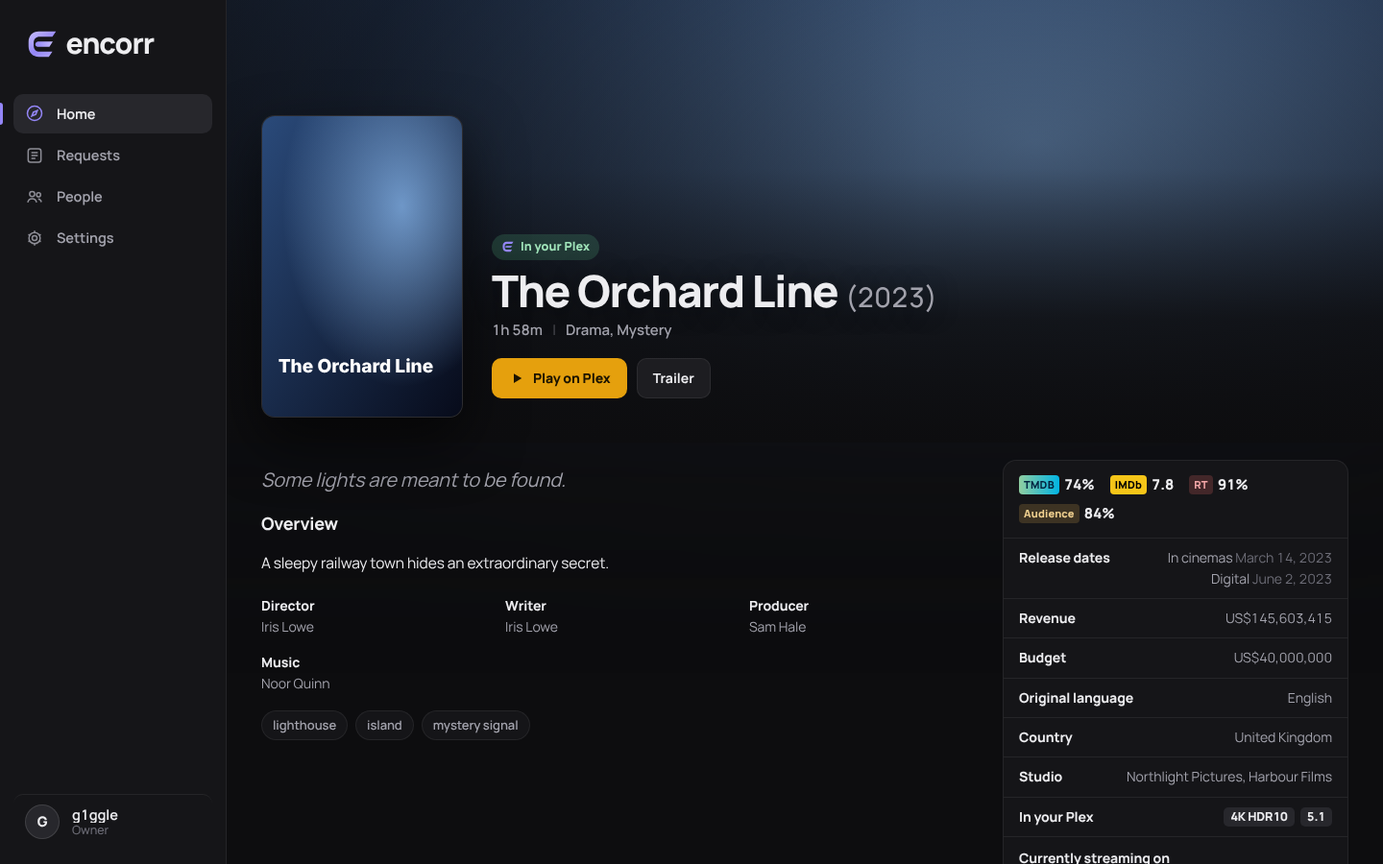
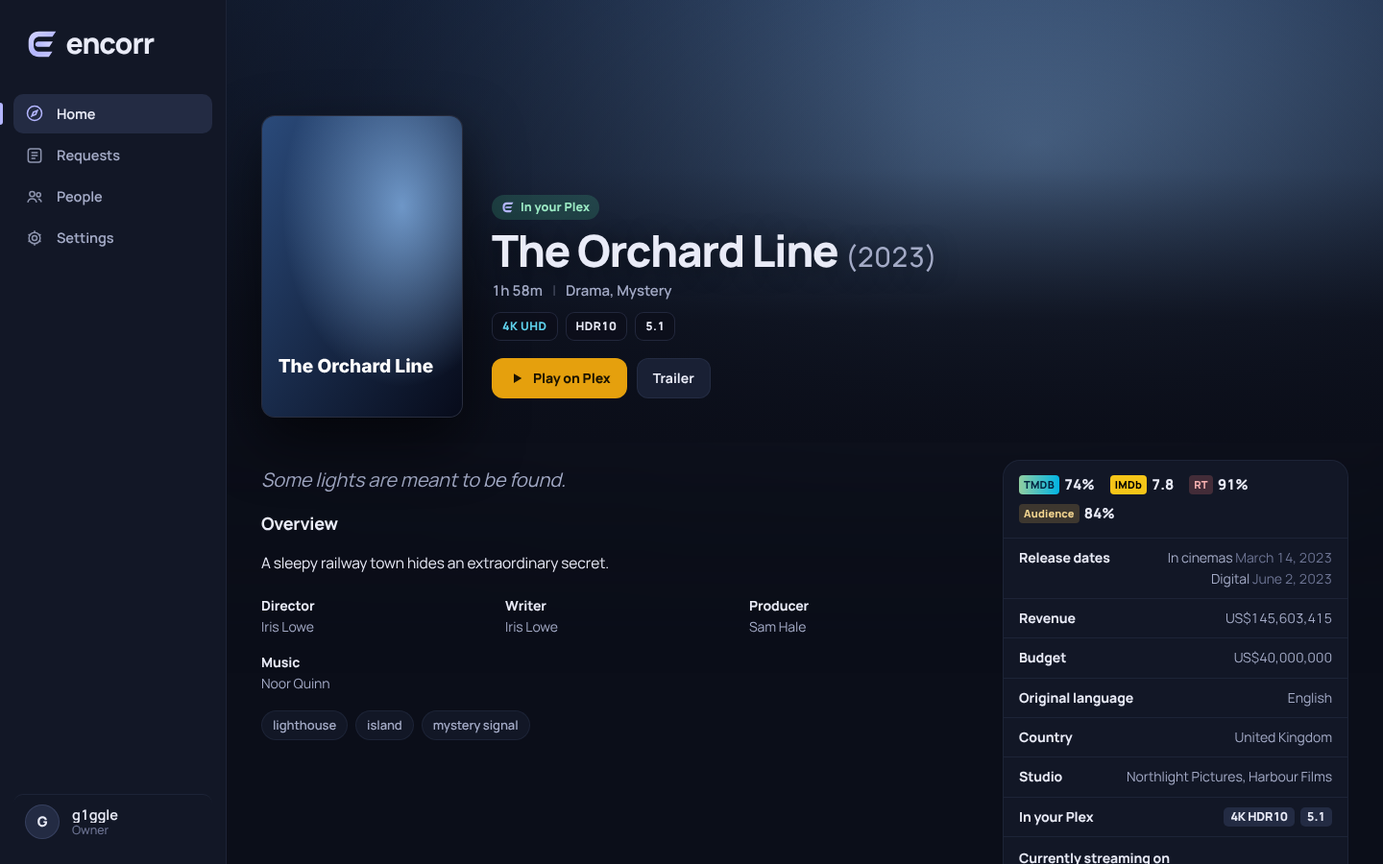
Midnight theme: ink-navy default, gradient progress, request stat tiles
- New default Midnight theme (deep ink navy, lavender accent, cyan highlights); Graphite stays as an option
- Each accent gets a companion highlight colour for ratings, links and progress
- Requests: stat tiles, new cards with poster badge, status pill, speed/time left and a gradient progress bar
- Plex quality chips (4K UHD, HDR10, 5.1) on title pages; In your Plex chip on the home banner
- Icons on home row headings
- Phone: bottom bar now shows labels
- Refreshed README screenshots

Claude-Session: https://claude.ai/code/session_01WbwGgC2FpzWvgXgKTPj5Lz

Changed region(s): [[0.3438, 0.2178, 0.6875, 0.4044], [0.0, 0.1244, 0.0312, 0.1556], [0.0, 0.0311, 0.0312, 0.0622]]

diff --git a/internal/web/static/app.js b/internal/web/static/app.js
@@ -138,6 +138,25 @@ const GMARK = (size, cls = "") => {
 const LOCKUP = (size) => `<span class="lockup" style="font-size:${size}px" role="img" aria-label="Encorr">${GMARK(Math.round(size * 1.05), "lk")}<span>encorr</span></span>`;
 
 // ---------- icons ----------
+const RI = {
+  flame: '<svg viewBox="0 0 24 24" fill="none" stroke="currentColor" stroke-width="1.8" stroke-linejoin="round"><path d="M12 3c.5 3.5 4.5 5.2 4.5 9.5a4.5 4.5 0 0 1-9 0c0-2 1-3.3 2-4.3.2 1.6 1 2.6 2 2.8C11 9 11 6 12 3Z"/></svg>',
+  recent: '<svg viewBox="0 0 24 24" fill="none" stroke="currentColor" stroke-width="1.8" stroke-linecap="round"><rect x="3.5" y="5" width="17" height="12" rx="2.5"/><path d="M8 20.5h8M10.5 9l4 2-4 2z"/></svg>',
+  film: '<svg viewBox="0 0 24 24" fill="none" stroke="currentColor" stroke-width="1.8"><rect x="4" y="3.5" width="16" height="17" rx="2.5"/><path d="M8 3.5v17M16 3.5v17M4 8h4M4 12h4M4 16h4M16 8h4M16 12h4M16 16h4"/></svg>',
+  tv: '<svg viewBox="0 0 24 24" fill="none" stroke="currentColor" stroke-width="1.8" stroke-linecap="round"><rect x="3" y="6" width="18" height="12.5" rx="2.5"/><path d="m8.5 2.5 3.5 3.5 3.5-3.5"/></svg>',
+  ticket: '<svg viewBox="0 0 24 24" fill="none" stroke="currentColor" stroke-width="1.8" stroke-linejoin="round"><path d="M3.5 7.5a2 2 0 0 1 2-2h13a2 2 0 0 1 2 2v2a2.5 2.5 0 0 0 0 5v2a2 2 0 0 1-2 2h-13a2 2 0 0 1-2-2v-2a2.5 2.5 0 0 0 0-5z"/><path d="M14 6v12" stroke-dasharray="2 2.2"/></svg>',
+  star: '<svg viewBox="0 0 24 24" fill="none" stroke="currentColor" stroke-width="1.8" stroke-linejoin="round"><path d="m12 3.5 2.6 5.3 5.9.9-4.3 4.1 1 5.8L12 16.8l-5.2 2.8 1-5.8-4.3-4.1 5.9-.9z"/></svg>',
+  person: '<svg viewBox="0 0 24 24" fill="none" stroke="currentColor" stroke-width="1.8" stroke-linecap="round"><circle cx="12" cy="8.5" r="4"/><path d="M4.5 20.5c1.2-3.6 4-5.5 7.5-5.5s6.3 1.9 7.5 5.5"/></svg>',
+  studio: '<svg viewBox="0 0 24 24" fill="none" stroke="currentColor" stroke-width="1.8" stroke-linejoin="round"><path d="M4 20.5V9l8-5 8 5v11.5M9 20.5v-6h6v6M3 20.5h18"/></svg>',
+  network: '<svg viewBox="0 0 24 24" fill="none" stroke="currentColor" stroke-width="1.8" stroke-linecap="round"><circle cx="12" cy="12" r="2"/><path d="M8 8a5.6 5.6 0 0 0 0 8M16 8a5.6 5.6 0 0 1 0 8M5.2 5.2a9.6 9.6 0 0 0 0 13.6M18.8 5.2a9.6 9.6 0 0 1 0 13.6"/></svg>',
+  tag: '<svg viewBox="0 0 24 24" fill="none" stroke="currentColor" stroke-width="1.8" stroke-linejoin="round"><path d="M3.5 12V4.5a1 1 0 0 1 1-1H12l8.5 8.5-8.5 8.5z"/><circle cx="8" cy="8" r="1.4" fill="currentColor"/></svg>',
+  spark: '<svg viewBox="0 0 24 24" fill="none" stroke="currentColor" stroke-width="1.8" stroke-linejoin="round"><path d="M12 3.5c.8 4.6 3.9 7.7 8.5 8.5-4.6.8-7.7 3.9-8.5 8.5-.8-4.6-3.9-7.7-8.5-8.5 4.6-.8 7.7-3.9 8.5-8.5Z"/></svg>',
+};
+function rowIcon(key) {
+  const k = String(key || ""), pre = k.split(":")[0];
+  const m = { trending: "flame", "plex-recent": "recent", movies: "film", tv: "tv", upcoming: "ticket", "now-playing": "ticket", "on-air": "tv", "top-movies": "star", "top-tv": "star", person: "person", company: "studio", network: "network", genre: "tag", keyword: "tag", decade: "spark", gems: "spark" };
+  return RI[m[k] || m[pre] || "spark"];
+}
+
 const I = {
   discover: '<svg viewBox="0 0 24 24" fill="none" stroke="currentColor" stroke-width="1.8"><circle cx="12" cy="12" r="9"/><path d="m15.5 8.5-2 5-5 2 2-5z" fill="currentColor" fill-opacity=".25"/></svg>',
   search: '<svg viewBox="0 0 24 24" fill="none" stroke="currentColor" stroke-width="1.8"><circle cx="11" cy="11" r="6.5"/><path d="m20 20-4.2-4.2"/></svg>',
@@ -151,7 +170,7 @@ const I = {
   chev: '<svg viewBox="0 0 24 24" fill="none" stroke="currentColor" stroke-width="2.2" width="16" height="16"><path d="m9 5 7 7-7 7"/></svg>',
 };
 
-const ACCENTS = [["violet", "#9486f7", "Violet"], ["blue", "#5b93f0", "Blue"], ["teal", "#2fbfae", "Teal"], ["green", "#52c47c", "Green"], ["yellow", "#e9bb4a", "Yellow"], ["coral", "#ef8256", "Orange"], ["red", "#e55a61", "Red"], ["pink", "#e46aa8", "Pink"]];
+const ACCENTS = [["violet", "#b4b6ff", "Lavender"], ["blue", "#5b93f0", "Blue"], ["teal", "#2fbfae", "Teal"], ["green", "#52c47c", "Green"], ["yellow", "#e9bb4a", "Yellow"], ["coral", "#ef8256", "Orange"], ["red", "#e55a61", "Red"], ["pink", "#e46aa8", "Pink"]];
 
 // ---------- boot & routing ----------
 async function boot() {
@@ -164,7 +183,7 @@ async function boot() {
   }
   state.user = state.status.user || null;
   document.documentElement.dataset.accent = state.status.accent || "violet";
-  document.documentElement.dataset.theme = state.status.theme || "black";
+  document.documentElement.dataset.theme = state.status.theme || "navy";
   const s = state.status;
   if (!s.hasAdmin || (!s.setupComplete && isAdmin())) return renderWizard();
   if (!state.user) return renderLogin();
@@ -455,7 +474,7 @@ async function pageDiscover(main, q = "", focus = false) {
   const box = qs("#rows");
   if (!box) return;
   box.innerHTML = rows.map((r, i) => `<section class="shelf">
-      <a class="shelf-head" href="#/browse/${encodeURIComponent(r.key)}"${tip("See everything in " + r.title.replace(/^\S+\s/, ""))}><h2>${esc(r.title)}</h2><span class="see">See all ${I.chev}</span></a>
+      <a class="shelf-head" href="#/browse/${encodeURIComponent(r.key)}"${tip("See everything in " + r.title)}><h2><span class="ri" aria-hidden="true">${rowIcon(r.key)}</span>${esc(r.title)}</h2><span class="see">See all ${I.chev}</span></a>
       <div id="row-${i}">${skeletonRow()}</div></section>`).join("");
   const load = async (r, i) => {
     const el = qs("#row-" + i);
@@ -482,7 +501,7 @@ async function pageDiscover(main, q = "", focus = false) {
     : `<a class="btn primary" href="#/title/${esc(x.type)}/${esc(x.id)}">${I.plus} Request</a>`;
   h.innerHTML = slides.map((x, i) => `<div class="slide ${i === 0 ? "on" : ""}" style="background-image:url('${esc(img(x.backdrop, "w1280"))}')" aria-hidden="${i === 0 ? "false" : "true"}">
       <div class="inner">
-        <div class="eyebrow">Trending this week · ${x.type === "tv" ? "TV show" : "Film"}</div>
+        ${x.status === "available" ? `<div class="qchips"><span class="qchip plex">In your Plex</span></div>` : ""}<div class="eyebrow">Trending this week · ${x.type === "tv" ? "TV show" : "Film"}</div>
         <h1>${esc(x.title)}</h1>
         <div class="hmeta">${x.rating ? `<span class="crate">${x.rating.toFixed(1)}</span>` : ""}${x.year ? `<span>${esc(x.year)}</span>` : ""}</div>
         <p>${esc(x.overview)}</p>
@@ -628,6 +647,14 @@ function journeyHTML(status, p, compact, part) {
   return `<div class="journey ${compact ? "compact" : "glass"} ${done ? "complete" : ""}" ${compact ? "" : 'id="journey"'} role="group" aria-label="Request progress: ${esc(j.text)}"><ol>${steps}</ol>${detail}</div>`;
 }
 
+// "4K HDR10" + "5.1" -> chips. Only shown when Plex told us what you have.
+function qchipsHTML(P) {
+  if (!P || !(P.quality || P.audio)) return "";
+  const bits = String(P.quality || "").split(/\s+/).filter(Boolean);
+  if (P.audio) bits.push(P.audio);
+  return `<div class="qchips">${bits.map((b) => `<span class="qchip ${/^4k$/i.test(b) ? "k4" : ""}">${esc(b.toUpperCase() === "4K" ? "4K UHD" : b)}</span>`).join("")}</div>`;
+}
+
 async function pageTitle(main, type, id) {
   main.innerHTML = `<div class="title-top"><div class="poster skeleton"></div><div><div class="skeleton" style="height:40px;width:60%"></div><div class="skeleton" style="height:16px;width:40%;margin-top:14px"></div><div class="skeleton" style="height:90px;margin-top:20px"></div></div></div>`;
   let data;
@@ -721,6 +748,7 @@ async function pageTitle(main, type, id) {
         ${statusPill}
         <h1>${esc(d.title)} ${d.year ? `<span class="yr">(${esc(d.year)})</span>` : ""}</h1>
         <div class="t-facts">${headFacts}</div>
+        ${qchipsHTML(P)}
         <div class="actions">
           ${P && P.url && ["available", "partial"].includes(s.status) ? `<a class="btn plex" href="${esc(P.url)}" target="_blank" rel="noopener"${tip("Open it in Plex")}>${I.play} Play on Plex</a>` : ""}
           ${requestable ? `<button class="btn primary" id="reqBtn"${tip(isAdmin() || state.user.role === "trusted" ? "Starts downloading straight away" : "Sends it to the owner to approve")}>${I.plus} ${s.status === "partial" || (type === "tv" && Object.keys(s.seasons || {}).length) ? "Request more" : "Request"}</button>` : ""}
@@ -860,9 +888,24 @@ async function pageRequests(main, filter) {
   main.innerHTML = `
     <div class="page-head"><div><h1>Requests</h1><div class="muted">${admin ? "Approve, decline and keep an eye on downloads." : "What you've asked for, and where it's up to."}</div></div>
       <div class="tabs">${tabs.map(([k, l, sh]) => `<button data-f="${k}" class="${k === filter ? "on" : ""}"><span class="long">${esc(l)}</span><span class="short">${esc(sh)}</span></button>`).join("")}</div></div>
+    <div class="rstats" id="rstats"></div>
     ${filter === "active" ? `<div id="rsum" class="rsum"></div>` : ""}
     <div id="rlist" class="list">${Array.from({ length: 4 }, () => `<div class="skeleton" style="height:105px"></div>`).join("")}</div>`;
   qsa(".tabs button", main).forEach((b) => b.addEventListener("click", () => (location.hash = "#/requests?filter=" + b.dataset.f)));
+  (async () => {
+    const tiles = admin
+      ? [["pending", "Waiting", "for your approval"], ["active", "In progress", ""], ["completed", "Completed", "ready in Plex"]]
+      : [["active", "In progress", ""], ["completed", "Completed", "ready in Plex"], ["mine", "All mine", "everything you asked for"]];
+    const got = await Promise.all(tiles.map(([k]) => api("/requests?filter=" + k).catch(() => null)));
+    const box = qs("#rstats");
+    if (!box) return;
+    box.innerHTML = tiles.map(([k, label, d], i) => {
+      const r = got[i]; const n = r ? r.results.length : "–";
+      const sub = k === "active" && r ? `${(r.counts || {}).downloading || 0} downloading` : d;
+      return `<button class="rstat ${k} ${k === filter ? "on" : ""}" data-f="${k}"><span class="k"><i></i>${esc(label)}</span><div class="n">${n}</div><div class="d">${esc(sub)}</div></button>`;
+    }).join("");
+    qsa(".rstat", box).forEach((b) => b.addEventListener("click", () => (location.hash = "#/requests?filter=" + b.dataset.f)));
+  })();
   let only = null; // state chip the user picked, if any
   const load = async () => {
     const box = qs("#rlist");
@@ -933,17 +976,30 @@ function reqRow(r) {
   if (r.type === "tv" && r.status === "approved" && r.want > 0) extra.push(`<span${tip("It moves to Completed once every episode that has aired is in Plex")}><b>${r.have || 0} of ${r.want}</b> episodes in Plex</span>`);
   if (r.nextAiring && r.state !== "waiting") extra.push(`<span${tip("New episodes download by themselves")}>Next episode ${esc(niceDate(r.nextAiring))}</span>`);
   if (r.state === "searching") extra.push(r.lastSearch ? `<span${tip("Encorr asks Radarr/Sonarr to look again every 12 hours")}>Searched again ${when(r.lastSearch)}</span>` : `<span${tip("Encorr asks Radarr/Sonarr to look again every 12 hours")}>Encorr will search again automatically</span>`);
-  return `<div class="glass req st-${esc(r.state || "")}" data-state="${esc(r.state || "")}">
-    <a href="#/title/${esc(r.type)}/${esc(r.tmdbId)}">${p ? `<img src="${esc(p)}" alt="">` : `<div class="ph"></div>`}</a>
-    <div class="info">
-      <a class="t" href="#/title/${esc(r.type)}/${esc(r.tmdbId)}" style="color:inherit">${esc(r.title)} <span class="dim" style="font-weight:500">${esc(r.year || "")}</span></a>
-      <div class="s">${r.type === "tv" ? esc(seasonsText(r.seasons)) + " · " : "Film · "}${esc(r.user || "Someone")} · ${when(r.created)}${src ? " · " + esc(src) : ""}</div>
+  const j = journeyState(r.status, r.progress, r);
+  const pr = r.progress || {};
+  let progHtml = "";
+  if (r.status === "approved" && r.state === "downloading" && pr.percent != null) {
+    const pct = Math.max(0, Math.min(100, pr.percent));
+    progHtml = `<div class="rprog"><div class="pline"><span class="hi">${pct}%${pr.speed ? ` · ${esc(pr.speed)}` : ""}</span><span class="eta">${pr.timeLeft ? `${esc(pr.timeLeft)} left` : esc(STAGE_TEXT[pr.stage] || pr.stage || "")}</span></div><div class="pbar"><i style="width:${pct}%;--w:${Math.max(pct, 1)}"></i></div></div>`;
+  } else if (j.text) {
+    const done = j.at >= 4;
+    progHtml = `<div class="rprog"><div class="pstate ${j.bad ? "bad" : done ? "good" : ""}"><span class="sd ${esc(r.state || (done ? "done" : ""))}"></span><strong>${esc(j.text)}</strong>${j.bits && j.bits.length ? `<span class="b">${j.bits.map(esc).join(", ")}</span>` : ""}${j.busy ? `<span class="spinner sm" aria-hidden="true"></span>` : ""}</div></div>`;
+  }
+  const pillTxt = { pending: ["pending", "Waiting for approval"], declined: ["declined", "Declined"], failed: ["failed", "Failed"], completed: ["done", "In Plex"], available: ["done", "In Plex"] }[r.status]
+    || (STATES[r.state] ? [r.state, STATES[r.state].label] : ["approved", "Approved"]);
+  return `<div class="req2 st-${esc(r.state || "")}" data-state="${esc(r.state || "")}">
+    <a class="rposter" href="#/title/${esc(r.type)}/${esc(r.tmdbId)}">${p ? `<img src="${esc(p)}" alt="">` : `<div class="ph"></div>`}<span class="rtype">${r.type === "tv" ? "TV" : "FILM"}</span></a>
+    <div class="rbody">
+      <div class="rtop"><a class="t" href="#/title/${esc(r.type)}/${esc(r.tmdbId)}">${esc(r.title)} <span class="yr">${esc(r.year || "")}</span></a><span class="spill2 ${esc(pillTxt[0])}">${esc(pillTxt[1])}</span></div>
+      <div class="s">${r.type === "tv" ? esc(seasonsText(r.seasons)) + " · " : ""}Requested by ${esc(r.user || "someone")} · ${when(r.created)}${src ? " · " + esc(src) : ""}</div>
       ${extra.length ? `<div class="s extras">${extra.join("")}</div>` : ""}
       ${r.note ? `<div class="s">“${esc(r.note)}”</div>` : ""}
       ${r.error ? `<div class="err">${esc(r.error)}</div>` : ""}
+      ${progHtml}
+      ${r.status === "approved" ? seasonBars(r.seasonProgress) : ""}
+      <div class="racts">${actions}</div>
     </div>
-    <div class="right"><div class="row">${actions}</div></div>
-    <div class="track">${prog}${r.status === "approved" ? seasonBars(r.seasonProgress) : ""}</div>
   </div>`;
 }
 
@@ -1427,7 +1483,7 @@ async function pageSettings(main, section) {
     panel.innerHTML = `<div id="bgCard"></div><h2>Look</h2><div class="field-label">Accent colour</div>
       <div class="swatches">${ACCENTS.map(([k, c, l]) => `<button type="button" class="swatch ${(s.accent || "violet") === k ? "on" : ""}" data-acc="${k}"><span class="sw" style="background:${c}"></span>${l}</button>`).join("")}</div>
       <div class="field-label" style="margin-top:18px">Background</div>
-      <div class="themes">${[["black", "Graphite", "Neutral dark grey: lets the posters bring the colour"], ["navy", "Midnight navy", "The original deep-blue look"]].map(([k, l, d]) => `<button type="button" class="theme-opt ${(s.theme || "black") === k ? "on" : ""}" data-theme-opt="${k}"><span class="tprev ${k}"><i></i><i></i><i></i></span><span><strong>${l}</strong><span class="small dim">${d}</span></span></button>`).join("")}</div>
+      <div class="themes">${[["navy", "Midnight", "Deep navy with soft colour highlights"], ["black", "Graphite", "Neutral dark grey: lets the posters bring the colour"]].map(([k, l, d]) => `<button type="button" class="theme-opt ${(s.theme || "navy") === k ? "on" : ""}" data-theme-opt="${k}"><span class="tprev ${k}"><i></i><i></i><i></i></span><span><strong>${l}</strong><span class="small dim">${d}</span></span></button>`).join("")}</div>
       <h2>Requests</h2>
       <p class="lead">Limits for Friends. Trusted users and admins have no limit. Use 0 for no limit.</p>
       <div class="row"><label class="field grow"${tip("How many films each Friend can ask for in the period. 0 = no limit")}><span>Films per period</span><input type="number" min="0" id="qm" value="${s.quotas.friendMovieLimit}"></label>
@@ -1439,7 +1495,7 @@ async function pageSettings(main, section) {
       <h2>TMDB</h2>${tmdbForm(s.tmdb)}${saveBar()}`;
     loadBackgroundCard(qs("#bgCard"));
     let accent = s.accent || "violet";
-    let theme = s.theme || "black";
+    let theme = s.theme || "navy";
     qsa("[data-theme-opt]").forEach((el) => el.addEventListener("click", () => {
       theme = el.dataset.themeOpt;
       document.documentElement.dataset.theme = theme;

diff --git a/internal/web/static/styles.css b/internal/web/static/styles.css
@@ -6,59 +6,51 @@
 }
 
 /* ===== Design tokens =====
-   Graphite base: depth comes from slightly lighter solid surfaces, not
-   see-through glass. One accent, used only for actions and selection.
-   Colours are a little desaturated so they don't "vibrate" on dark. */
+   Default "Midnight": deep ink-navy, layered solid surfaces, a soft pastel
+   accent for actions and a cyan highlight for live numbers and links.
+   "Graphite" (data-theme=black) is the neutral grey alternative. */
 :root {
-  --bg-0: #0d0d0f;            /* page */
-  --bg-1: #121215;
-  --bg-2: #1b1b1f;
-  --bg: var(--bg-0);
-  --surface-1: #151518;       /* panels, cards, menu */
-  --surface-2: #1d1d21;       /* raised: inputs, buttons, hover */
-  --surface-3: #27272c;       /* pressed / selected */
-  --line: rgba(255, 255, 255, 0.07);
-  --line-2: rgba(255, 255, 255, 0.12);
-  --shade: 13, 13, 15;        /* overlays and backdrop fades, as r, g, b */
+  --bg-0: #0b0e19; --bg-1: #0f1320; --bg-2: #161c2e; --bg: var(--bg-0);
+  --surface-1: #121726;       /* panels, cards, menu */
+  --surface-2: #192034;       /* raised: inputs, buttons, hover */
+  --surface-3: #232b43;       /* pressed / selected */
+  --line: rgba(170, 185, 255, 0.08);
+  --line-2: rgba(170, 185, 255, 0.15);
+  --shade: 11, 14, 25;
   --glass: var(--surface-1);
-  --glass-strong: rgba(21, 21, 24, 0.86);
+  --glass-strong: rgba(18, 23, 38, 0.86);
   --glass-border: var(--line);
-  --text: #ededf0;
-  --text-2: #a2a2ac;
-  --text-3: #6c6c76;
-  --glow-a: transparent;
-  --glow-b: transparent;
-  --ok: #5fcf8e;      --ok-2: #9fe3b9;
-  --warn: #e3b052;    --warn-2: #f0d08f;
-  --bad: #e8686a;     --bad-2: #f3a6a7;
-  --info: #6aa6e8;    --info-2: #a9cbf2;
-  --radius: 14px;
-  --radius-sm: 10px;
+  --text: #e9ebf7; --text-2: #a3aac6; --text-3: #6c7392;
+  --glow-a: transparent; --glow-b: transparent;
+  --ok: #4fd69a;      --ok-2: #9ae9c3;
+  --warn: #e9b955;    --warn-2: #f3d590;
+  --bad: #f07a7a;     --bad-2: #f7b0b0;
+  --info: #5fd3ee;    --info-2: #a8e7f6;
+  --radius: 18px; --radius-sm: 12px;
   --nav-w: 236px;
-  --shadow: 0 18px 50px rgba(0, 0, 0, 0.45);
-  --shadow-sm: 0 4px 14px rgba(0, 0, 0, 0.3);
+  --shadow: 0 24px 60px rgba(0, 0, 0, 0.5);
+  --shadow-sm: 0 6px 18px rgba(0, 0, 0, 0.35);
   --font: "Manrope", "Segoe UI Variable", "Segoe UI", system-ui, -apple-system, Roboto, sans-serif;
 }
-/* The original navy look, kept as an option. */
-[data-theme="navy"] {
-  --bg-0: #080c1b; --bg-1: #0c1229; --bg-2: #141b3a;
-  --surface-1: #0f1630; --surface-2: #161e3d; --surface-3: #1f2850;
-  --line: rgba(160, 180, 255, 0.10); --line-2: rgba(160, 180, 255, 0.18);
-  --shade: 8, 12, 27;
-  --glass-strong: rgba(15, 22, 48, 0.86);
-  --text: #eef1ff; --text-2: #a9b2d6; --text-3: #7480ad;
+[data-theme="black"] {
+  --bg-0: #0d0d0f; --bg-1: #121215; --bg-2: #1b1b1f;
+  --surface-1: #151518; --surface-2: #1d1d21; --surface-3: #27272c;
+  --line: rgba(255, 255, 255, 0.07); --line-2: rgba(255, 255, 255, 0.12);
+  --shade: 13, 13, 15;
+  --glass-strong: rgba(21, 21, 24, 0.86);
+  --text: #ededf0; --text-2: #a2a2ac; --text-3: #6c6c76;
 }
 
 /* Accent colours (Settings → General). accent-2 is a lighter tint for text
    on dark; accent-ink is the text colour that sits on the accent. */
-:root, [data-accent="violet"] { --accent: #9486f7; --accent-2: #c4bbfb; --accent-pop: #b3a8fa; --accent-ink: #120d2e; --accent-glow: rgba(148, 134, 247, 0.32); }
-[data-accent="blue"]   { --accent: #5b93f0; --accent-2: #a9c6f7; --accent-pop: #7eaaf3; --accent-ink: #061430; --accent-glow: rgba(91, 147, 240, 0.32); }
-[data-accent="teal"]   { --accent: #2fbfae; --accent-2: #94e1d6; --accent-pop: #5ccfc1; --accent-ink: #032824; --accent-glow: rgba(47, 191, 174, 0.30); }
-[data-accent="green"]  { --accent: #52c47c; --accent-2: #a8e2bd; --accent-pop: #78d299; --accent-ink: #052613; --accent-glow: rgba(82, 196, 124, 0.30); }
-[data-accent="yellow"] { --accent: #e9bb4a; --accent-2: #f3dc9f; --accent-pop: #f0cb72; --accent-ink: #2a1d02; --accent-glow: rgba(233, 187, 74, 0.28); }
-[data-accent="coral"]  { --accent: #ef8256; --accent-2: #f7bea6; --accent-pop: #f39e7b; --accent-ink: #331006; --accent-glow: rgba(239, 130, 86, 0.30); }
-[data-accent="red"]    { --accent: #e55a61; --accent-2: #f3aaae; --accent-pop: #ec7c82; --accent-ink: #32070b; --accent-glow: rgba(229, 90, 97, 0.30); }
-[data-accent="pink"]   { --accent: #e46aa8; --accent-2: #f3b5d5; --accent-pop: #ea8dbd; --accent-ink: #34061e; --accent-glow: rgba(228, 106, 168, 0.30); }
+:root, [data-accent="violet"] { --accent: #b4b6ff; --accent-2: #d3d4ff; --accent-pop: #c6c7ff; --accent-ink: #15185a; --accent-glow: rgba(180, 182, 255, 0.34); --hi: #5fd3ee; }
+[data-accent="blue"]   { --accent: #5b93f0; --accent-2: #a9c6f7; --accent-pop: #7eaaf3; --accent-ink: #061430; --accent-glow: rgba(91, 147, 240, 0.32); --hi: #5fd3ee; }
+[data-accent="teal"]   { --accent: #2fbfae; --accent-2: #94e1d6; --accent-pop: #5ccfc1; --accent-ink: #032824; --accent-glow: rgba(47, 191, 174, 0.30); --hi: #4fd69a; }
+[data-accent="green"]  { --accent: #52c47c; --accent-2: #a8e2bd; --accent-pop: #78d299; --accent-ink: #052613; --accent-glow: rgba(82, 196, 124, 0.30); --hi: #5fd3ee; }
+[data-accent="yellow"] { --accent: #e9bb4a; --accent-2: #f3dc9f; --accent-pop: #f0cb72; --accent-ink: #2a1d02; --accent-glow: rgba(233, 187, 74, 0.28); --hi: #f39a6b; }
+[data-accent="coral"]  { --accent: #ef8256; --accent-2: #f7bea6; --accent-pop: #f39e7b; --accent-ink: #331006; --accent-glow: rgba(239, 130, 86, 0.30); --hi: #e9b955; }
+[data-accent="red"]    { --accent: #e55a61; --accent-2: #f3aaae; --accent-pop: #ec7c82; --accent-ink: #32070b; --accent-glow: rgba(229, 90, 97, 0.30); --hi: #f39a6b; }
+[data-accent="pink"]   { --accent: #e46aa8; --accent-2: #f3b5d5; --accent-pop: #ea8dbd; --accent-ink: #34061e; --accent-glow: rgba(228, 106, 168, 0.30); --hi: #b4b6ff; }
 
 * { box-sizing: border-box; }
 [hidden] { display: none !important; }
@@ -335,7 +327,7 @@ table.users select { width: auto; padding: 6px 10px; }
 .theme-opt.on { border-color: var(--text); }
 .tprev { flex: none; width: 54px; height: 40px; border-radius: 8px; display: grid; grid-template-columns: 1fr 2fr; gap: 3px; padding: 4px; }
 .tprev.black { background: #0c0c10; border: 1px solid rgba(255,255,255,.12); }
-.tprev.navy { background: #0b1230; border: 1px solid rgba(160,180,255,.2); }
+.tprev.navy { background: #0b0e19; border: 1px solid rgba(170,185,255,.2); }
 .tprev i { border-radius: 3px; background: rgba(255,255,255,.12); }
 .tprev i:first-child { grid-row: span 2; }
 .tprev i:nth-child(2) { background: var(--accent); }
@@ -935,3 +927,97 @@ label.field > span, .field-label { color: var(--text-2); font-weight: 650; font-
 .t-facts .gl a { color: inherit; } .t-facts .gl a:hover { color: var(--text); }
 @media (hover: none) { .searchbar .kbd-hint { display: none; } }
 input[type=search]::-webkit-search-cancel-button { filter: grayscale(1) brightness(1.8); cursor: pointer; }
+
+
+/* =====================================================================
+   Midnight layer: bigger soft corners, gradient progress, quality chips,
+   stat tiles, poster badges and request cards.
+   ===================================================================== */
+.glass, .req2, .rstat, .t-side, .journey.glass, .settings .menu { border-radius: var(--radius); }
+.btn { border-radius: 12px; }
+.btn.primary { box-shadow: 0 8px 24px -8px var(--accent-glow); }
+.card .poster { border-radius: 14px; }
+.hero, .hero.carousel { border-radius: 24px; }
+.crate { color: var(--hi); font-weight: 800; }
+.crate::before { content: "\2605"; margin-right: 4px; font-size: .95em; }
+.shelf-head .see, a.lnk { color: var(--hi); }
+.shelf-head:hover .see { color: var(--text); }
+.shelf-head h2 { display: flex; align-items: center; gap: 10px; }
+.shelf-head h2 .ri { width: 22px; height: 22px; color: var(--hi); flex: none; display: inline-flex; }
+.shelf-head h2 .ri svg { width: 100%; height: 100%; }
+.card .type { text-transform: uppercase; letter-spacing: .06em; font-size: 10px; padding: 4px 7px; border-radius: 7px; color: var(--text); }
+.flag .pill { text-transform: none; }
+.empty .big:empty { display: none; }
+
+/* Quality chips (4K, HDR, 5.1) */
+.qchips { display: flex; flex-wrap: wrap; gap: 8px; margin: 12px 0 2px; }
+.qchip { display: inline-flex; align-items: center; gap: 6px; padding: 5px 10px; border-radius: 9px; background: rgba(var(--shade), .6); border: 1px solid var(--line-2); font-size: 12px; font-weight: 800; letter-spacing: .04em; color: var(--text); backdrop-filter: blur(8px); }
+.qchip.k4 { color: var(--hi); }
+.qchip.plex { color: var(--ok-2); border-color: color-mix(in srgb, var(--ok) 35%, transparent); }
+.qchip.plex::before { content: ""; width: 7px; height: 7px; border-radius: 50%; background: var(--ok); box-shadow: 0 0 8px var(--ok); }
+
+/* Requests: stat tiles */
+.rstats { display: grid; grid-template-columns: repeat(3, 1fr); gap: 12px; margin: 0 0 18px; }
+.rstat { background: var(--surface-1); border: 1px solid var(--line); padding: 14px 16px; text-align: left; color: var(--text); font: inherit; cursor: pointer; transition: border-color .15s, background .15s; }
+.rstat:hover { border-color: var(--line-2); background: var(--surface-2); }
+.rstat.on { border-color: color-mix(in srgb, var(--accent) 55%, transparent); background: color-mix(in srgb, var(--accent) 7%, var(--surface-1)); }
+.rstat .k { display: flex; align-items: center; gap: 7px; font-size: 12.5px; font-weight: 750; color: var(--text-2); }
+.rstat .k i { width: 7px; height: 7px; border-radius: 50%; background: var(--c, var(--accent)); box-shadow: 0 0 10px var(--c, var(--accent)); }
+.rstat .n { font-size: 30px; font-weight: 800; letter-spacing: -0.03em; line-height: 1.1; margin-top: 6px; color: var(--c, var(--text)); }
+.rstat .d { font-size: 12.5px; color: var(--text-3); font-weight: 650; }
+.rstat.pending { --c: var(--warn); } .rstat.active { --c: var(--hi); } .rstat.completed, .rstat.mine { --c: var(--ok); }
+
+/* Requests: cards */
+.req2 { display: grid; grid-template-columns: 96px 1fr; gap: 18px; padding: 16px; background: var(--surface-1); border: 1px solid var(--line); }
+.req2.st-attention { border-color: color-mix(in srgb, var(--bad) 40%, transparent); }
+.rposter { position: relative; display: block; align-self: start; }
+.rposter img, .rposter .ph { width: 96px; aspect-ratio: 2/3; height: auto; object-fit: cover; border-radius: 12px; display: block; background: var(--surface-2); box-shadow: 0 10px 24px -10px rgba(0,0,0,.7); }
+.rposter .rtype { position: absolute; top: 6px; left: 6px; font-size: 9.5px; font-weight: 800; letter-spacing: .08em; padding: 3px 6px; border-radius: 6px; background: rgba(var(--shade), .82); color: var(--text); }
+.rbody { min-width: 0; display: flex; flex-direction: column; gap: 4px; }
+.rtop { display: flex; align-items: flex-start; justify-content: space-between; gap: 12px; }
+.rtop .t { font-size: 17px; font-weight: 800; letter-spacing: -0.015em; color: var(--text); line-height: 1.25; }
+.rtop .t .yr { color: var(--text-3); font-weight: 600; }
+.spill2 { flex: none; display: inline-flex; align-items: center; gap: 6px; padding: 4px 10px; border-radius: 999px; font-size: 12px; font-weight: 800; background: color-mix(in srgb, var(--c) 15%, transparent); color: color-mix(in srgb, var(--c) 70%, #fff); }
+.spill2::before { content: ""; width: 7px; height: 7px; border-radius: 50%; background: var(--c); }
+.spill2.attention { --c: var(--bad); } .spill2.pending { --c: var(--warn); } .spill2.downloading { --c: var(--hi); }
+.spill2.finishing { --c: var(--info); } .spill2.searching { --c: #8f97b8; } .spill2.waiting { --c: #8f97b8; }
+.spill2.done { --c: var(--ok); } .spill2.declined, .spill2.failed { --c: var(--bad); } .spill2.approved { --c: var(--accent); }
+.req2 .s { color: var(--text-2); font-size: 13.5px; }
+.req2 .extras { display: flex; flex-wrap: wrap; gap: 6px 14px; }
+.req2 .err { color: var(--bad-2); font-size: 13.5px; }
+.rprog { margin-top: 10px; }
+.pline { display: flex; justify-content: space-between; gap: 10px; font-size: 13px; font-weight: 800; letter-spacing: .02em; }
+.pline .hi { color: var(--hi); }
+.pline .eta { color: var(--text-2); }
+.pbar { height: 8px; border-radius: 999px; background: var(--surface-3); overflow: hidden; margin-top: 7px; }
+.pbar i { display: block; height: 100%; border-radius: inherit; background: linear-gradient(90deg, var(--accent), var(--hi), var(--ok)); background-size: calc(10000% / var(--w, 100)) 100%; box-shadow: 0 0 14px -2px var(--hi); transition: width .6s ease; }
+.pstate { display: flex; align-items: center; gap: 10px; padding: 10px 12px; border-radius: 12px; background: var(--surface-2); font-size: 13.5px; }
+.pstate strong { font-weight: 750; }
+.pstate span.b { color: var(--text-2); }
+.pstate.bad { background: color-mix(in srgb, var(--bad) 10%, var(--surface-2)); color: var(--bad-2); }
+.pstate.good { background: color-mix(in srgb, var(--ok) 10%, var(--surface-2)); color: var(--ok-2); }
+.pstate .sd { flex: none; }
+.racts { display: flex; flex-wrap: wrap; gap: 8px; margin-top: 10px; justify-content: flex-end; }
+.racts:empty { display: none; }
+.req2 .sbars { margin-top: 10px; }
+.list { display: flex; flex-direction: column; gap: 12px; }
+@media (max-width: 760px) {
+  .rstats { gap: 8px; } .rstat { padding: 12px; } .rstat .n { font-size: 24px; } .rstat .d { display: none; }
+  .req2 { grid-template-columns: 74px 1fr; gap: 14px; padding: 14px; }
+  .rposter img, .rposter .ph { width: 74px; }
+  .rtop { flex-direction: column; gap: 6px; } .rtop .t { font-size: 16px; }
+  .racts { justify-content: stretch; } .racts .btn { flex: 1; justify-content: center; }
+}
+
+/* Phone: labelled bottom bar */
+@media (max-width: 760px) {
+  .nav { height: calc(70px + env(safe-area-inset-bottom)); padding: 0 4px env(safe-area-inset-bottom); gap: 0; }
+  .nav a.item { padding: 8px 2px 6px; gap: 4px; font-size: 11px; }
+  .nav a.item svg { width: 22px; height: 22px; }
+  .nav a.item .label { display: block; font-size: 11px; font-weight: 700; }
+  .nav a.item.active { color: var(--accent); }
+  .nav a.item.active .label { color: var(--accent); }
+  .nav a.item.active svg { color: var(--accent); filter: drop-shadow(0 0 8px var(--accent-glow)); }
+  .nav .badge { background: var(--hi); color: #04222b; }
+}
+.hero .hmeta .crate, .hero.carousel .hmeta .crate, .card .crate { color: var(--hi); }
